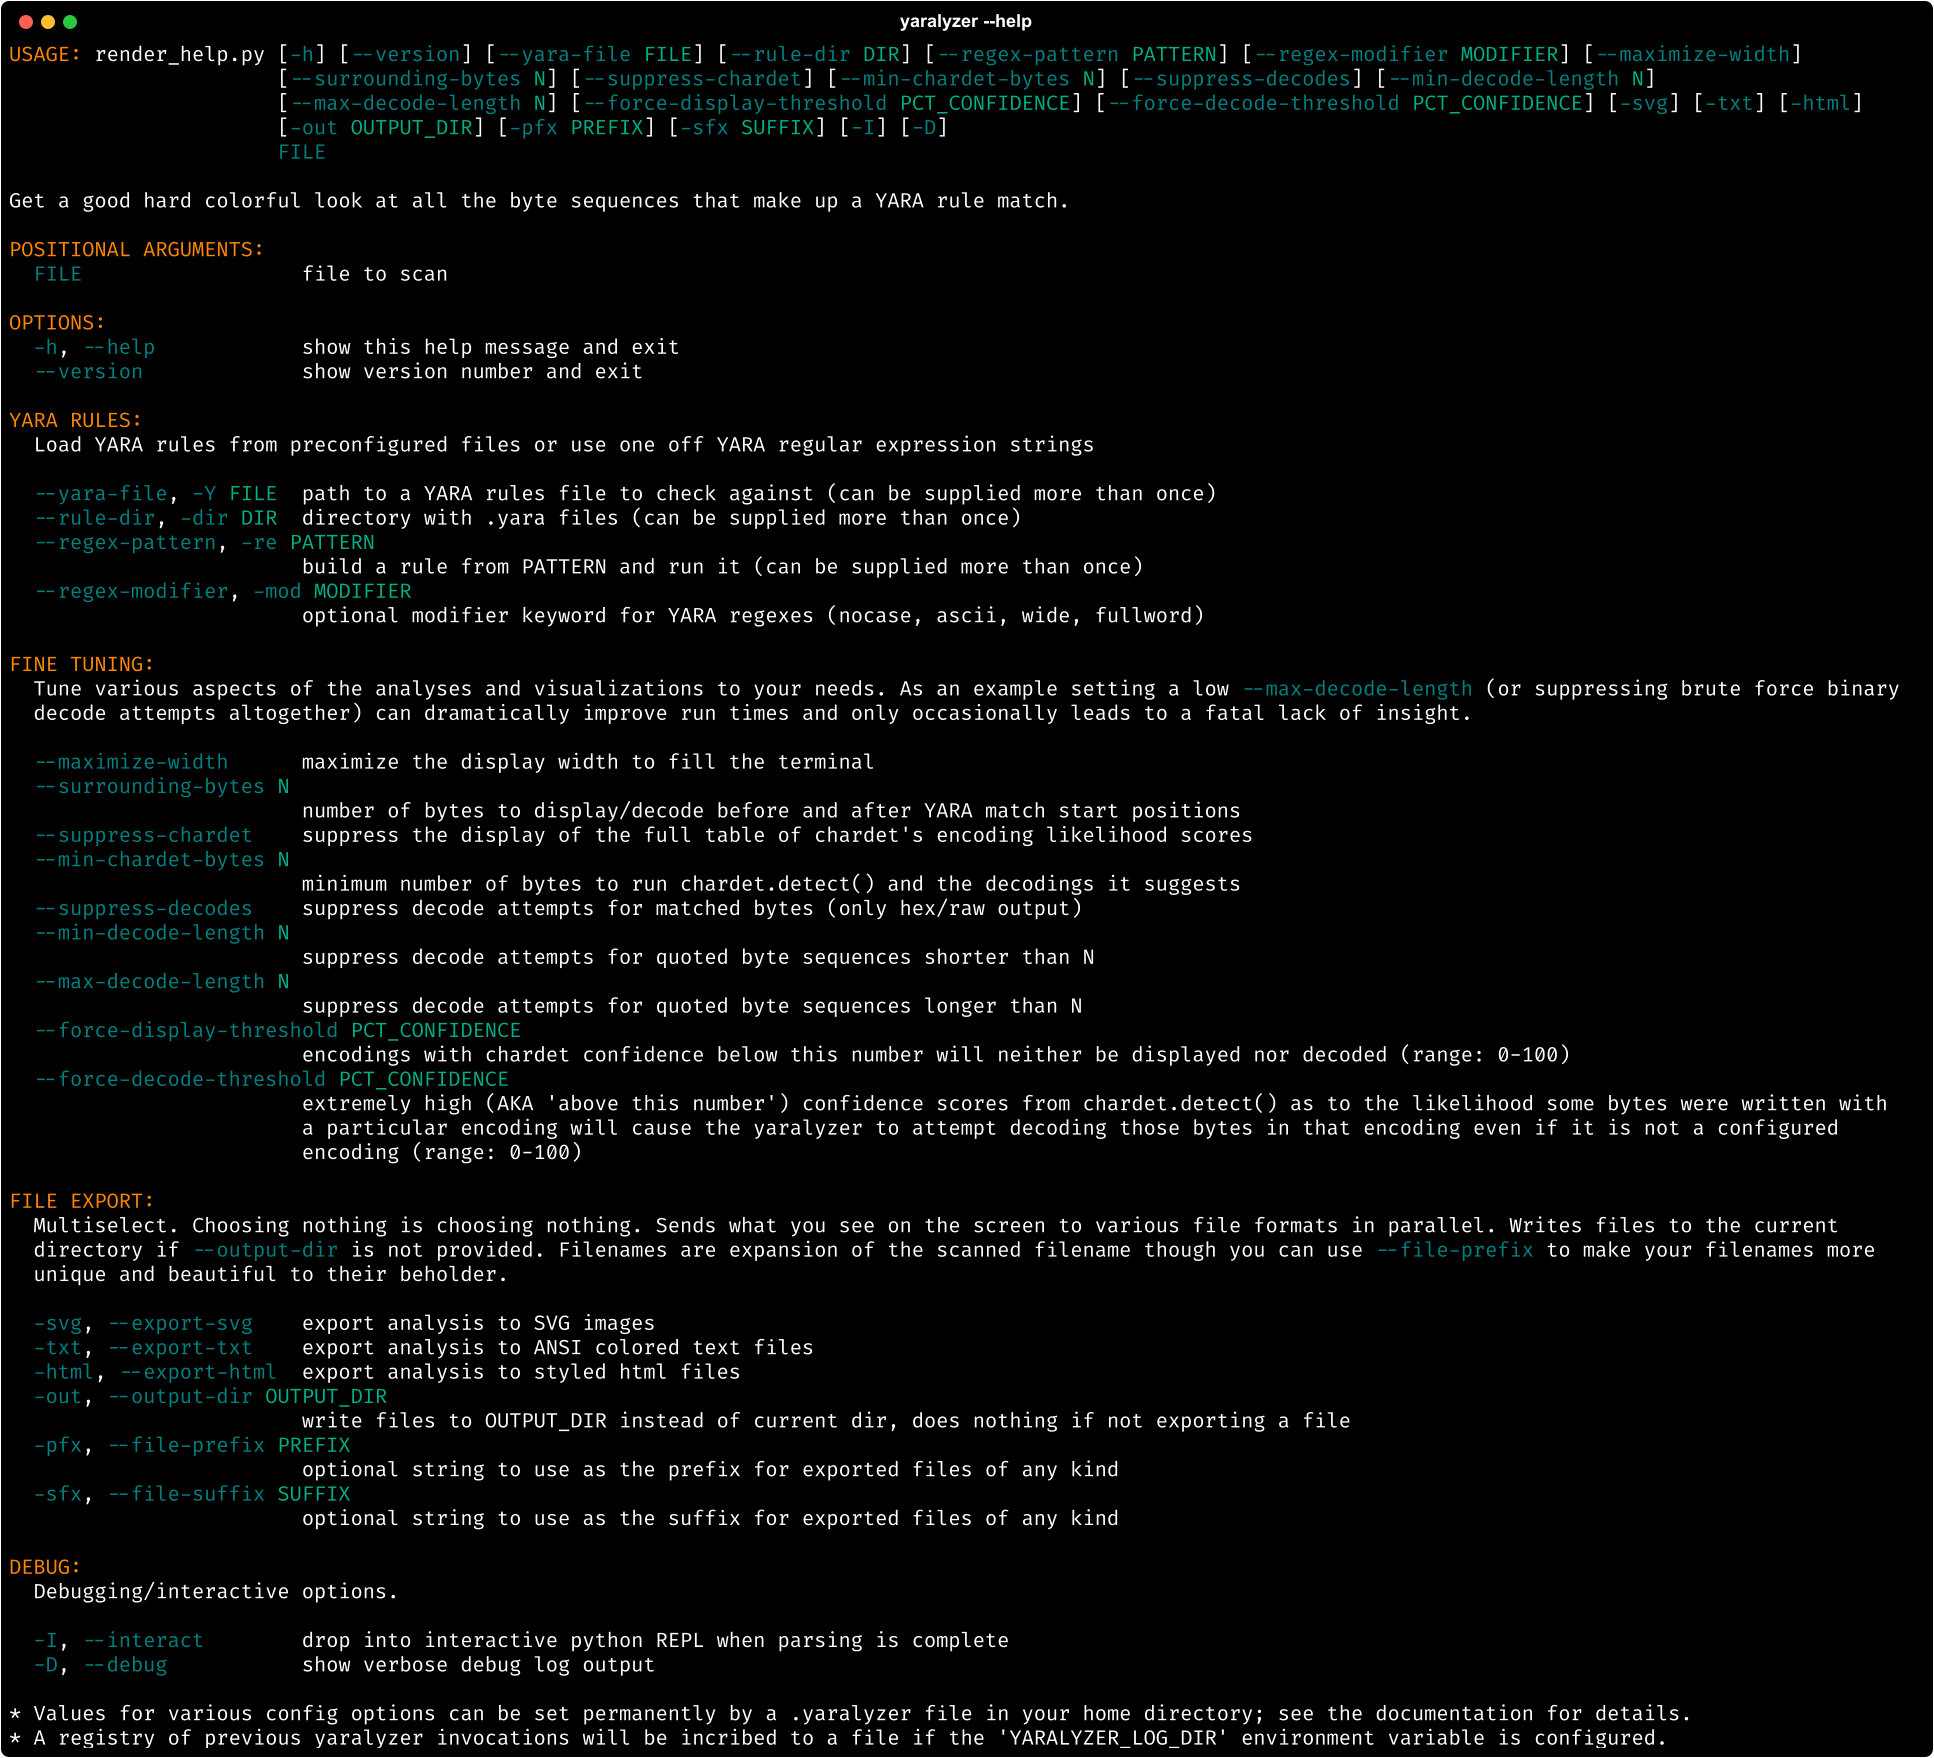
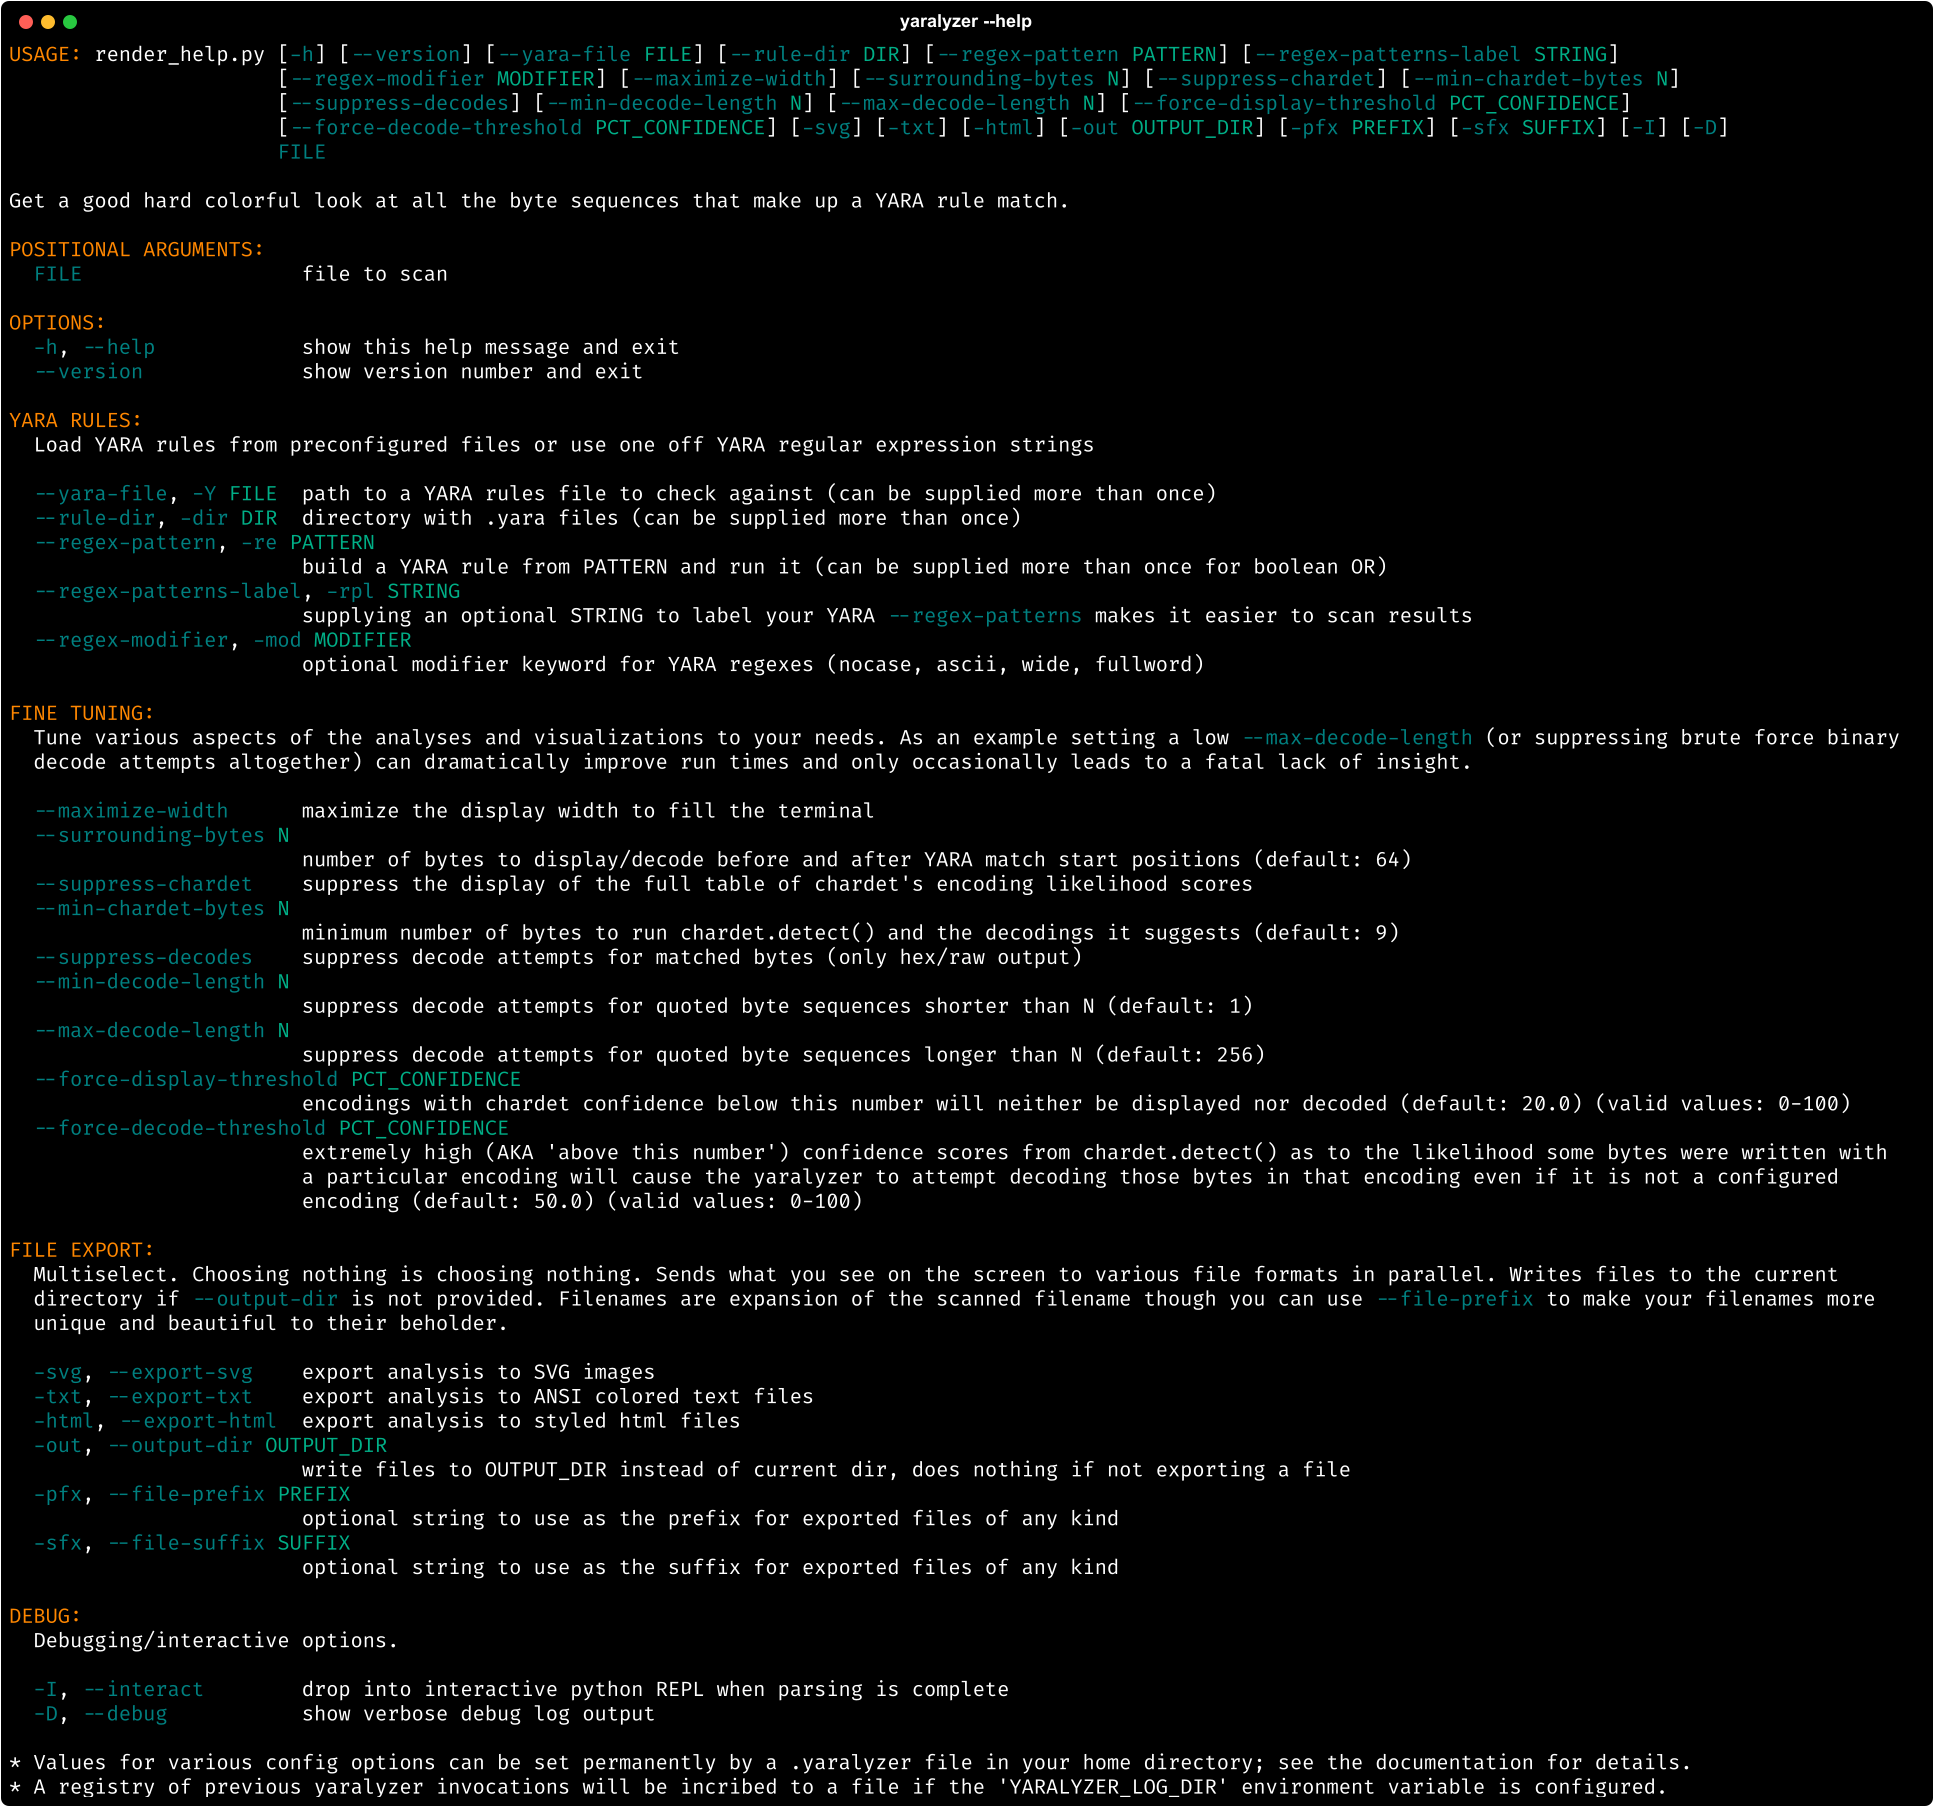
Pattern labeling option

diff --git a/yaralyzer/util/argument_parser.py b/yaralyzer/util/argument_parser.py
@@ -1,4 +1,5 @@
 import logging
+import re
 import sys
 from argparse import Action, ArgumentError, ArgumentDefaultsHelpFormatter, ArgumentParser, Namespace
 from collections import namedtuple
@@ -42,6 +43,7 @@ class ExplicitDefaultsHelpFormatter(RichHelpFormatter, ArgumentDefaultsHelpForma
 
 
 YARA_RULES_ARGS = ['yara_rules_files', 'yara_rules_dirs', 'yara_patterns']
+YARA_PATTERN_REGEX = re.compile('^\\w+$')
 DESCRIPTION = "Get a good hard colorful look at all the byte sequences that make up a YARA rule match. "
 
 EPILOG = "* Values for various config options can be set permanently by a .yaralyzer file in your home directory; " + \
@@ -72,10 +74,14 @@ source.add_argument('--rule-dir', '-dir',
                     dest='yara_rules_dirs')
 
 source.add_argument('--regex-pattern', '-re',
-                    help='build a rule from PATTERN and run it (can be supplied more than once)',
+                    help='build a YARA rule from PATTERN and run it (can be supplied more than once for boolean OR)',
                     action='append',
                     metavar='PATTERN',
                     dest='yara_patterns')
+
+source.add_argument('--regex-patterns-label', '-rpl',
+                    help='supplying an optional STRING to label your YARA --regex-patterns makes it easier to scan results',
+                    metavar='STRING')
 
 source.add_argument('--regex-modifier', '-mod',
                     help=f"optional modifier keyword for YARA regexes ({comma_join(YARA_REGEX_MODIFIERS)})",
@@ -219,6 +225,9 @@ def parse_arguments(args: Optional[Namespace] = None):
 
     if args.maximize_width:
         rich_console.console.width = max(rich_console.console_width_possibilities())
+
+    if args.regex_patterns_label and not YARA_PATTERN_REGEX.match(args.regex_patterns_label):
+        raise ArgumentError(None, '--regex-patterns-label can only include alphanumeric and underscore')
 
     #### Check against defaults to avoid overriding env var configured optoins
     # Suppressing/limiting output

diff --git a/yaralyzer/yaralyzer.py b/yaralyzer/yaralyzer.py
@@ -55,8 +55,13 @@ class Yaralyzer:
             self.bytes: bytes = load_binary_data(scannable)
             self.bytes_label: str = bytes_label or path.basename(scannable)
 
+        if isinstance(rules, yara.Rules):
+            self.rules: yara.Rules = rules
+        else:
+            log.info(f"Compiling YARA rules from provided string:\n{rules}")
+            self.rules: yara.Rules =  yara.compile(source=rules)
+
         self.bytes_length: int = len(self.bytes)
-        self.rules: yara.Rules = rules if isinstance(rules, yara.Rules) else yara.compile(source=rules)
         self.rules_label: str = rules_label
         self.highlight_style: str = highlight_style
         # Outcome racking variables
@@ -107,12 +112,17 @@ class Yaralyzer:
             patterns: List[str],
             scannable: Union[bytes, str],
             bytes_label: Optional[str] = None,
-            pattern_label: Optional[str] = None,  # TODO: actually use the pattern label in the generated rule
+            pattern_label: Optional[str] = None,
             regex_modifier: Optional[str] = None
         ) -> 'Yaralyzer':
         """Constructor taking regex pattern strings. Rules label defaults to patterns joined by comma"""
         rule_strings = [
-            yara_rule_string(pattern, f"{YARALYZE}_{i + 1}", modifier=regex_modifier)
+            yara_rule_string(
+                pattern,
+                f"{YARALYZE}_{i + 1}",
+                f"{pattern_label}_{i + 1}" if pattern_label else None,
+                regex_modifier
+            )
             for i, pattern in enumerate(patterns)
         ]
 

diff --git a/yaralyzer/yara/yara_rule_builder.py b/yaralyzer/yara/yara_rule_builder.py
@@ -24,9 +24,9 @@ rule {rule_name} {{
     meta:
         author = "The Yaralyzer"
     strings:
-        ${string_label} = /{pattern}/{modifier}
+        ${pattern_label} = /{pattern}/{modifier}
     condition:
-        ${string_label}
+        ${pattern_label}
 }}
 """
 
@@ -34,7 +34,7 @@ rule {rule_name} {{
 def yara_rule_string(
         pattern: str,
         rule_name: str,
-        string_label: Optional[str] = 'pattern',
+        pattern_label: Optional[str] = 'pattern',
         modifier: Optional[str] = None
     ) -> str:
     """Build a YARA rule string for a given pattern"""
@@ -43,7 +43,7 @@ def yara_rule_string(
 
     rule = RULE_TEMPLATE.format(
         rule_name=rule_name,
-        string_label=string_label,
+        pattern_label=pattern_label,
         pattern=pattern,
         modifier='' if modifier is None else f" {modifier}")
 
@@ -54,8 +54,8 @@ def yara_rule_string(
 def build_yara_rule(
         pattern: str,
         rule_name: str,
-        string_label: Optional[str] = 'pattern',
+        pattern_label: Optional[str] = 'pattern',
         modifier: Optional[str] = None
     ) -> yara.Rule:
     """Build a compiled YARA rule"""
-    return yara.compile(source=yara_rule_string(pattern, rule_name, string_label, modifier))
+    return yara.compile(source=yara_rule_string(pattern, rule_name, pattern_label, modifier))

diff --git a/scripts/render_help.py b/scripts/render_help.py
@@ -38,7 +38,7 @@ TERMINAL_THEME = TerminalTheme(
 )
 
 
-def _render_help(program_name: str, export_format: str, output_dir: str) -> None:
+def _render_help(program_name: str, export_format: str, output_dir: str) -> str:
     """Render the contents of the help screen to an HTML, SVG, or colored text file"""
     console = Console(record=True, theme=Theme(RichHelpFormatter.styles))
     export_method_name = f"save_{export_format}"
@@ -54,8 +54,10 @@ def _render_help(program_name: str, export_format: str, output_dir: str) -> None
 
     console.print(Text.from_ansi(parser.format_help()))
     export_method(output_file, **export_kwargs[export_method_name])
-    console.print(f"\n\nInvoked Rich.console.{export_method_name}('{output_file}')", style='yellow')
-    console.print(f"   * kwargs: '{export_kwargs[export_method_name]}'...\n\n", style='yellow')
+    console.print(f"\n\nInvoked Rich.console.{export_method_name}('{output_file}')", style='cyan')
+    console.print(f"   * kwargs: '{export_kwargs[export_method_name]}'...\n", style='cyan')
+    console.print(f"Help rendered to '{output_file}'...", style='cyan')
+    return output_file
 
 
 render_parser = ArgumentParser(

diff --git a/yaralyzer/__init__.py b/yaralyzer/__init__.py
@@ -30,6 +30,7 @@ def yaralyze():
         yaralyzer = Yaralyzer.for_patterns(
             args.yara_patterns,
             args.file_to_scan_path,
+            pattern_label=args.regex_patterns_label,
             regex_modifier=args.regex_modifier)
     else:
         raise RuntimeError("No pattern or YARA file to scan against.")

diff --git a/CHANGELOG.md b/CHANGELOG.md
@@ -1,4 +1,5 @@
 # NEXT RELEASE
+* Add `--regex-patterns-label` command line option
 
 # 0.3.3
 * Refactor `file_export` and `rich_console`
